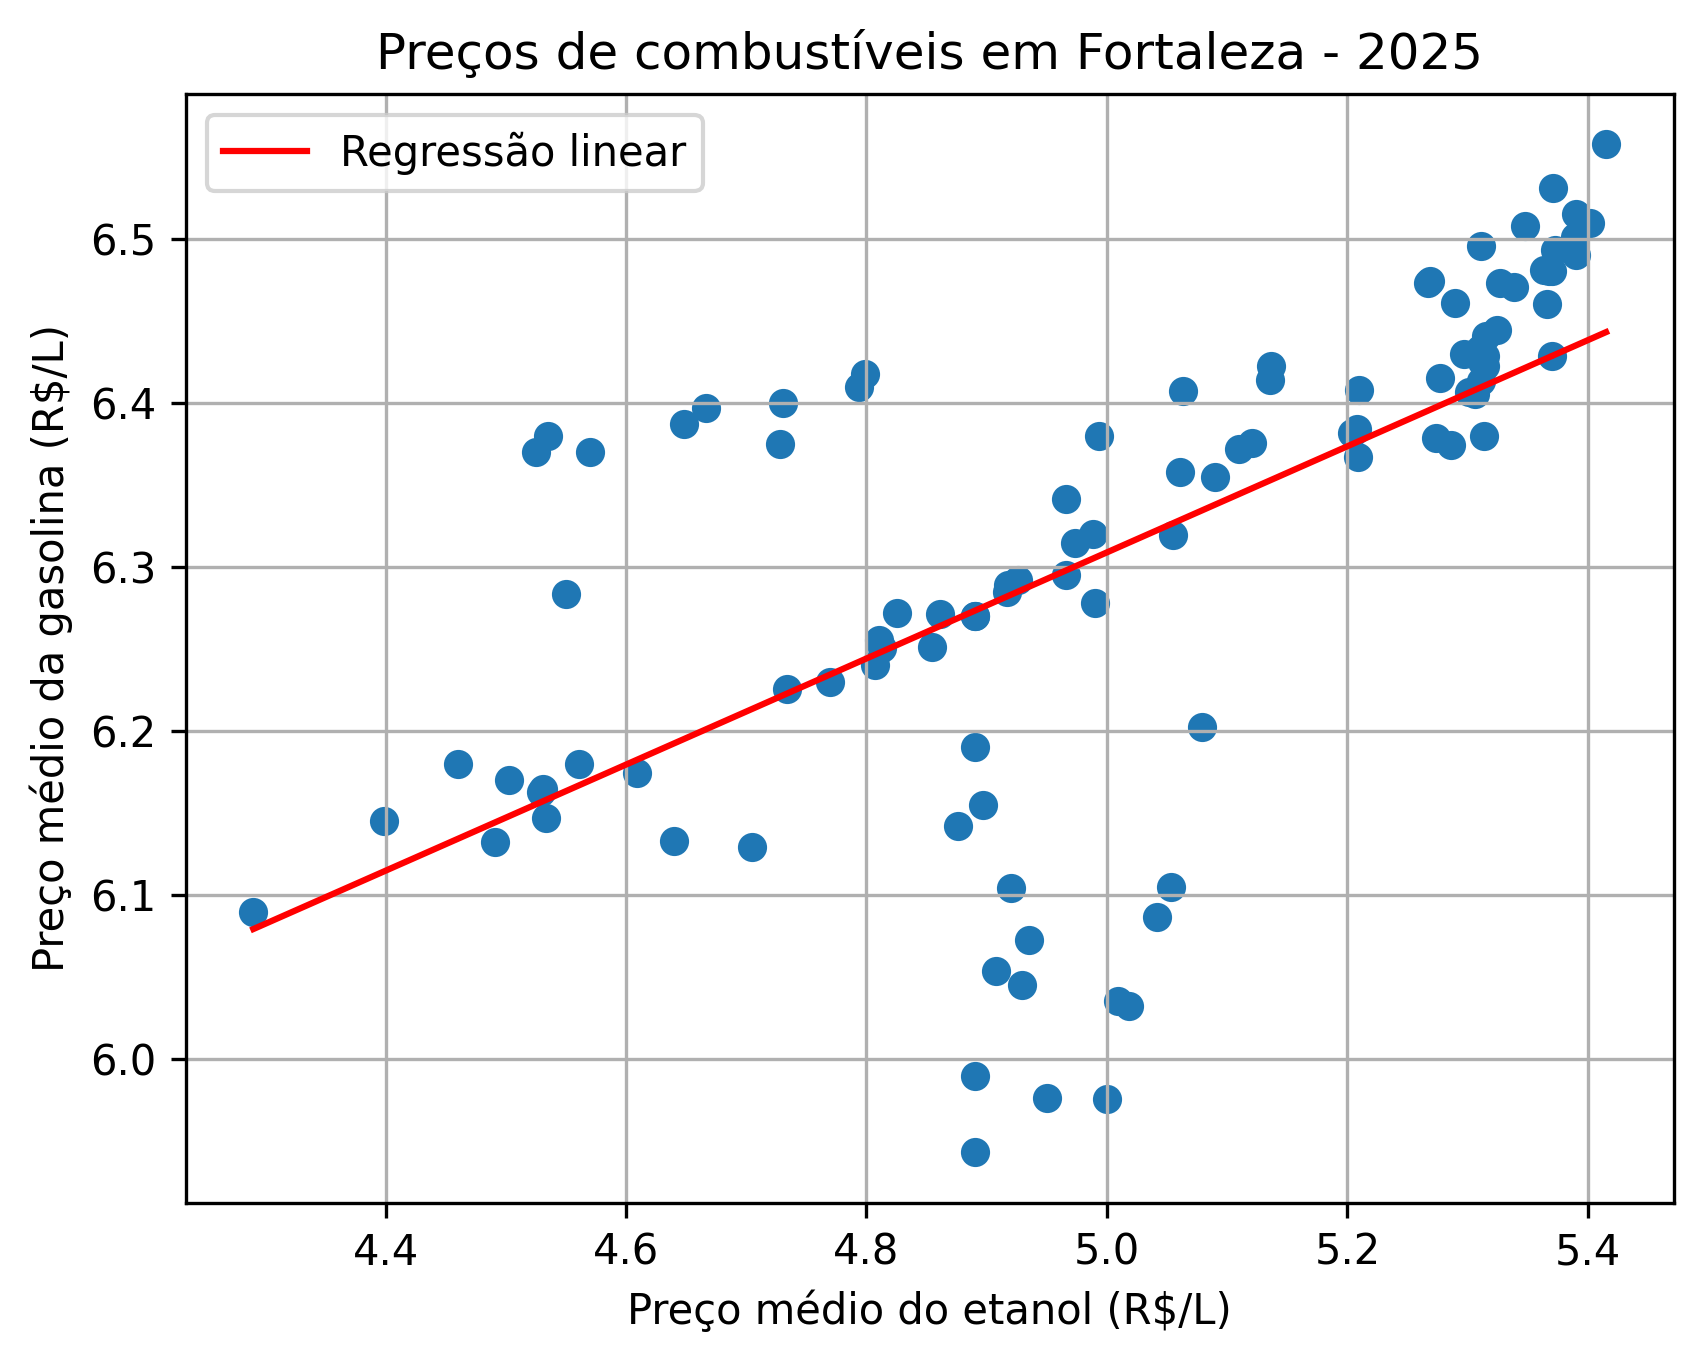
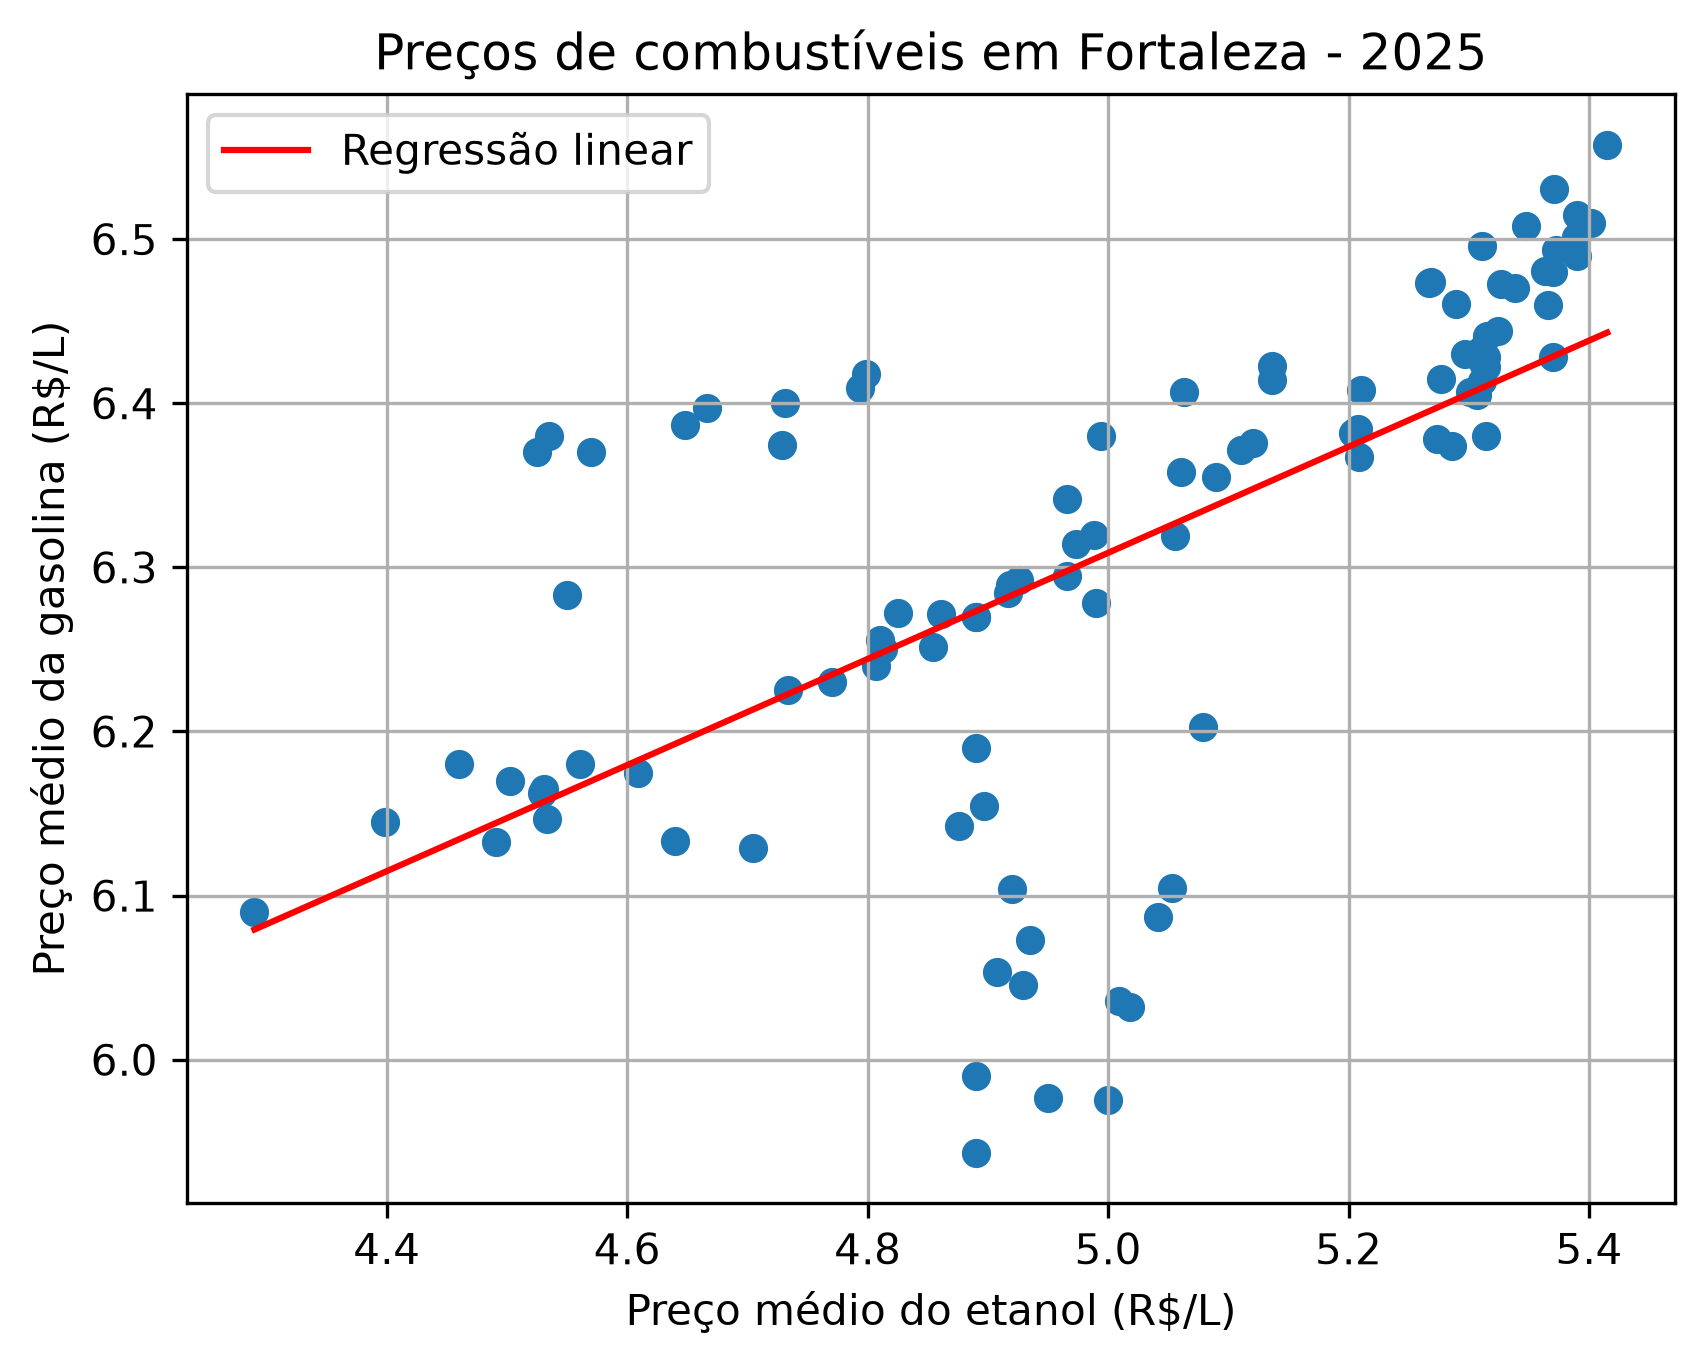
Adiciona analise de residuos e validacao do modelo

diff --git a/AV2-Combustiveis-Fortaleza/codigo/validacao_modelo.py b/AV2-Combustiveis-Fortaleza/codigo/validacao_modelo.py
@@ -1,0 +1,160 @@
+from pathlib import Path
+
+import pandas as pd
+import matplotlib.pyplot as plt
+import statsmodels.api as sm
+from scipy.stats import shapiro
+from statsmodels.stats.diagnostic import het_breuschpagan 
+
+# Caminhos do projeto
+pasta_av2 = Path(__file__).resolve().parent.parent
+arquivo = pasta_av2 / "dados" / "dados_tratados.csv"
+
+pasta_graficos = pasta_av2 / "resultados" / "graficos"
+pasta_tabelas = pasta_av2 / "resultados" / "tabelas"
+
+pasta_graficos.mkdir(parents=True, exist_ok=True)
+pasta_tabelas.mkdir(parents=True, exist_ok=True)
+
+# Carregar os dados
+dados = pd.read_csv(arquivo)
+
+x = dados["etanol"]
+y = dados["gasolina"]
+
+# Ajustar a regressão linear
+X = sm.add_constant(x)
+modelo = sm.OLS(y, X).fit()
+
+# Modelo com fórmula, necessário para a ANOVA
+modelo_anova = sm.formula.ols(
+    "gasolina ~ etanol",
+    data=dados
+).fit()
+
+valores_estimados = modelo.fittedvalues
+residuos = modelo.resid
+
+
+# 1. Gráfico dos resíduos
+plt.figure()
+plt.scatter(valores_estimados, residuos)
+plt.axhline(y=0, color="red", linestyle="--")
+plt.title("Resíduos versus valores estimados")
+plt.xlabel("Valores estimados da gasolina (R$/L)")
+plt.ylabel("Resíduos (R$/L)")
+plt.grid(True)
+
+plt.savefig(
+    pasta_graficos / "residuos_valores_estimados.png",
+    dpi=300,
+    bbox_inches="tight"
+)
+plt.close()
+
+
+# 2. Histograma dos resíduos
+plt.figure()
+plt.hist(residuos, bins="auto", edgecolor="black")
+plt.title("Distribuição dos resíduos")
+plt.xlabel("Resíduos (R$/L)")
+plt.ylabel("Frequência")
+plt.grid(True)
+
+plt.savefig(
+    pasta_graficos / "histograma_residuos.png",
+    dpi=300,
+    bbox_inches="tight"
+)
+plt.close()
+
+
+# 3. Gráfico Q-Q para avaliar normalidade
+fig = sm.qqplot(residuos, line="45", fit=True)
+plt.title("Gráfico Q-Q dos resíduos")
+fig.savefig(
+    pasta_graficos / "qqplot_residuos.png",
+    dpi=300,
+    bbox_inches="tight"
+)
+plt.close(fig)
+
+
+# 4. Teste de normalidade de Shapiro-Wilk
+# O teste é aplicado aos resíduos do modelo.
+if 3 <= len(residuos) <= 5000:
+    estatistica_shapiro, p_shapiro = shapiro(residuos)
+    normalidade = (
+        "Sem evidência suficiente contra a normalidade"
+        if p_shapiro >= 0.05
+        else "Evidência de desvio da normalidade"
+    )
+else:
+    estatistica_shapiro = float("nan")
+    p_shapiro = float("nan")
+    normalidade = (
+        "Teste de Shapiro-Wilk não executado: "
+        "amostra fora do intervalo de 3 a 5000 observações"
+    )
+
+
+# 5. Teste de homocedasticidade de Breusch-Pagan
+bp = het_breuschpagan(residuos, X)
+estatistica_bp = bp[0]
+p_bp = bp[1]
+
+homocedasticidade = (
+    "Sem evidência suficiente de heterocedasticidade"
+    if p_bp >= 0.05
+    else "Evidência de heterocedasticidade"
+)
+
+
+# 6. ANOVA da regressão
+tabela_anova = sm.stats.anova_lm(modelo_anova, typ=1)
+tabela_anova.to_csv(
+    pasta_tabelas / "anova_regressao.csv",
+    index=True
+)
+
+
+# 7. Resumo dos testes
+resultados = pd.DataFrame({
+    "Indicador": [
+        "Número de observações",
+        "R² do modelo",
+        "Estatística F",
+        "Valor-p da regressão",
+        "Estatística de Shapiro-Wilk",
+        "Valor-p de Shapiro-Wilk",
+        "Interpretação da normalidade",
+        "Estatística de Breusch-Pagan",
+        "Valor-p de Breusch-Pagan",
+        "Interpretação da variância dos resíduos"
+    ],
+    "Valor": [
+        len(dados),
+        modelo.rsquared,
+        modelo.fvalue,
+        modelo.f_pvalue,
+        estatistica_shapiro,
+        p_shapiro,
+        normalidade,
+        estatistica_bp,
+        p_bp,
+        homocedasticidade
+    ]
+})
+
+resultados.to_csv(
+    pasta_tabelas / "validacao_modelo.csv",
+    index=False
+)
+
+print("Validação concluída!")
+print("\nANOVA da regressão:")
+print(tabela_anova)
+print("\nResultados dos testes:")
+print(resultados.to_string(index=False))
+print(f"\nGráficos salvos em: {pasta_graficos}")
+print(f"Tabelas salvas em: {pasta_tabelas}")
